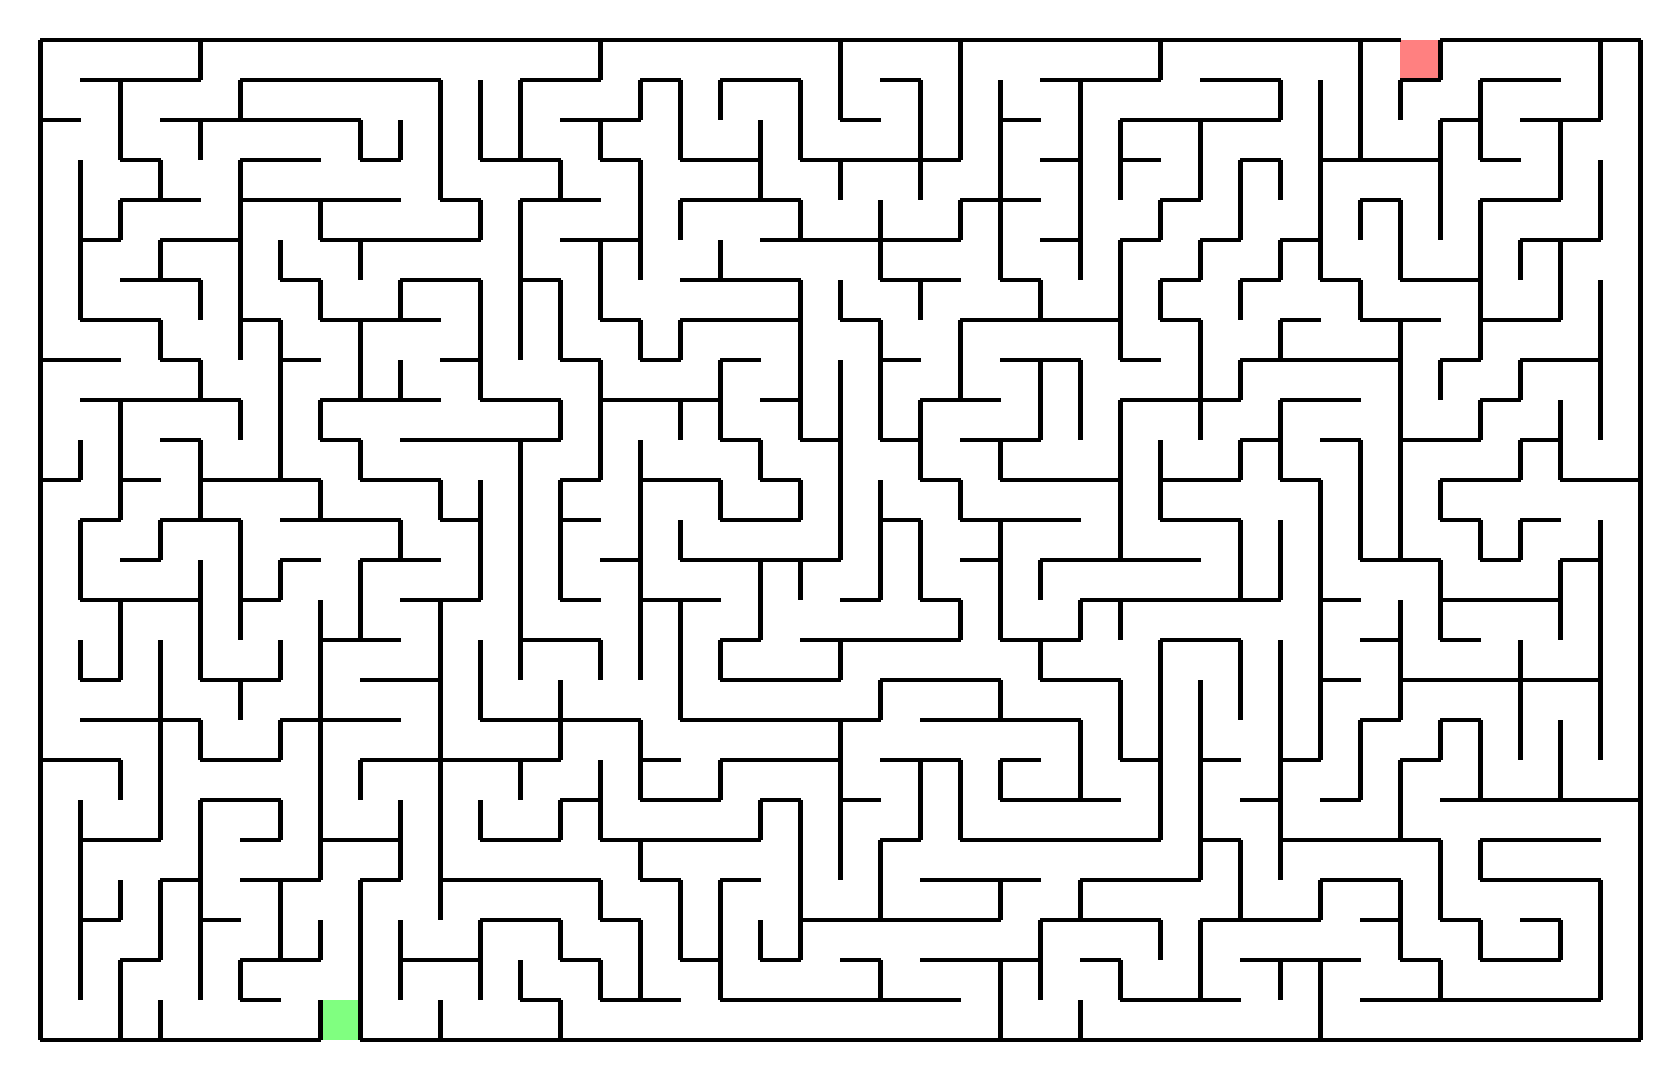
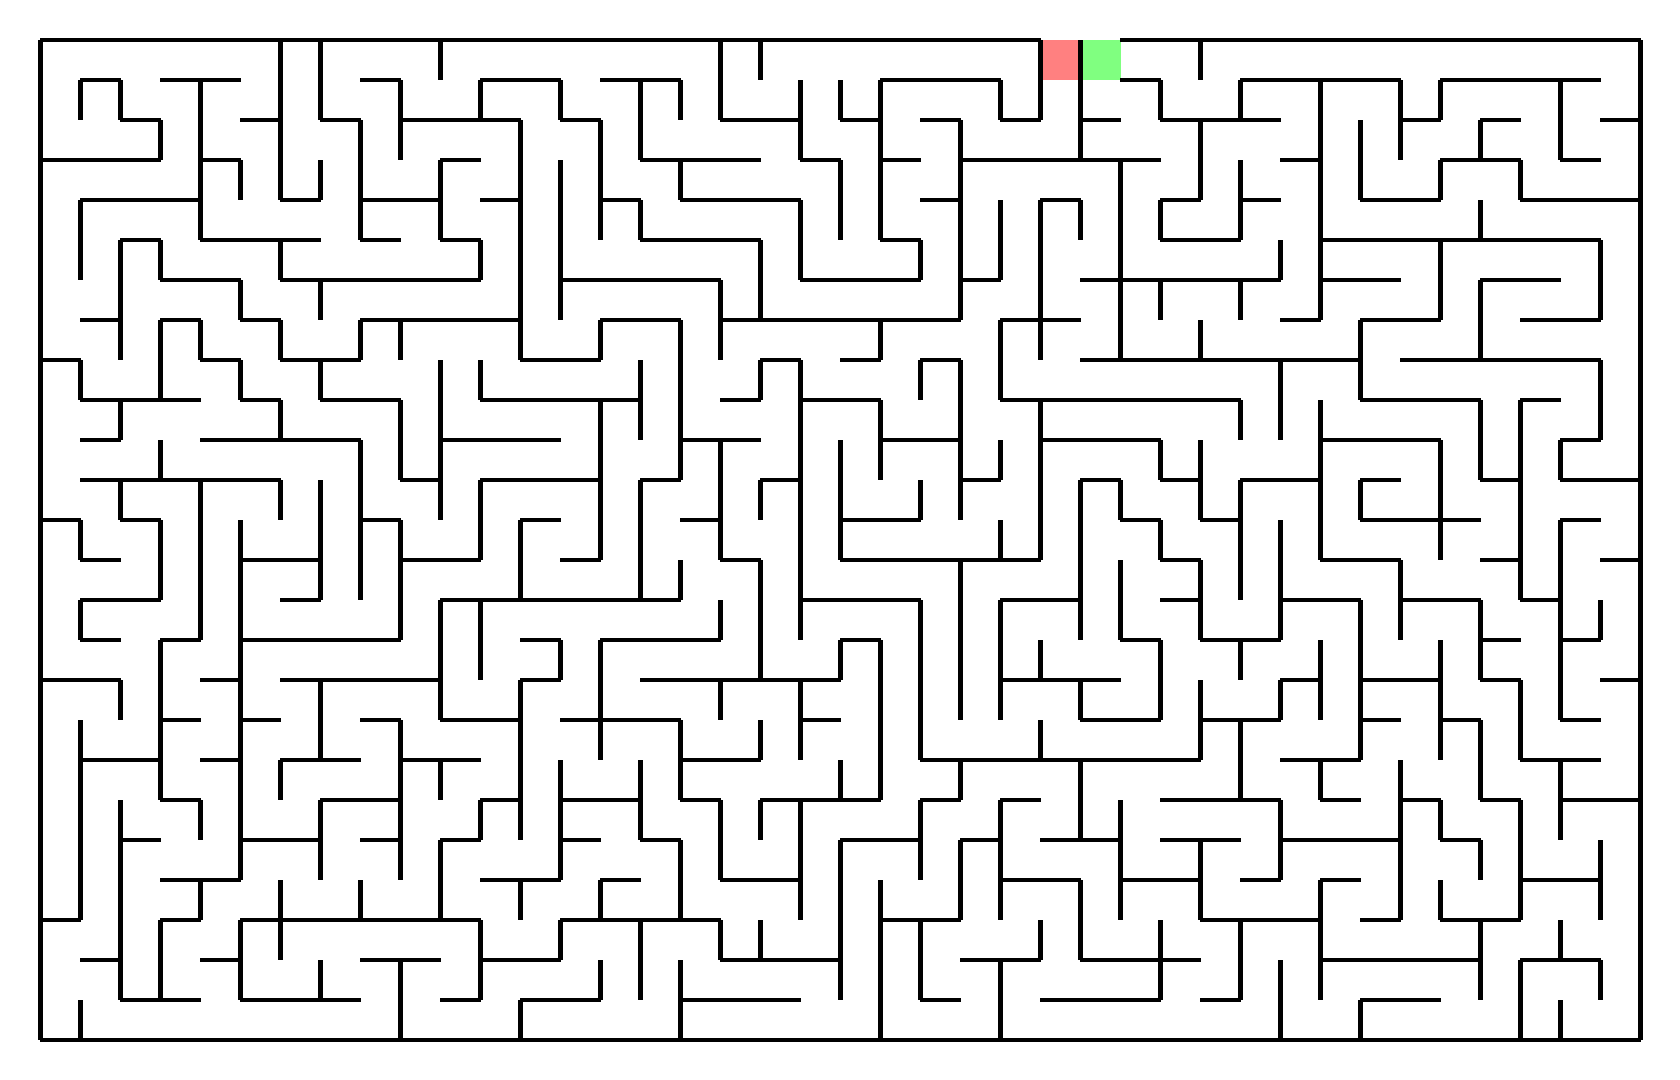
Updated demo images

diff --git a/demo/demo.py b/demo/demo.py
@@ -1,5 +1,7 @@
 # coding=utf-8
 """Demonstrate some ways to use polymaze."""
+import PIL.Image
+
 import polymaze as pmz
 
 
@@ -7,12 +9,22 @@ def demo():
     print 'Saving demos:'
     basic_string_maze()
     custom_rectangle_mazes()
+    image_maze()
+
+
+def image_maze():
+    image = PIL.Image.open('source_image.png')
+    grid = pmz.PolyGrid(supershape=pmz.SUPERSHAPES_DICT['HexaFlower'])
+    grid.create_from_image(image, complexity=100)
+    maze = pmz.Maze(grid)
+    filename = 'globe.png'
+    maze.image().save(filename, format='PNG')
 
 
 def basic_string_maze():
-    s = u'Poly Maze'
-    grid = pmz.PolyGrid()
-    grid.create_string(s, complexity=2)
+    s = u'迷路'
+    grid = pmz.PolyGrid(supershape=pmz.SUPERSHAPES_DICT['OctaDiamond'])
+    grid.create_string(s, complexity=50, font_path='meiryob.ttc')
     maze = pmz.Maze(grid)
     filename = 'Demo Normal String.png'
     maze.image().save(filename, format='PNG')
